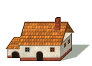
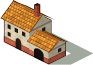
Osadnicy: budynki w rzucie izometrycznym jak w grze
Budynki stoją narożnikiem do widza: lewa ściana w świetle, prawa
w półcieniu, dach od góry. Dom przysadzisty, z kremowego tynku na
grubym ceglanym cokole, z małymi ciemnymi okienkami, łukowymi drzwiami,
kominem i parterową przybudówką z bramą. Chata drwala z desek na
kamiennej podmurówce, plac budowy z płytą fundamentu i rusztowaniem.
Obrazki przycinane automatycznie do zawartości.

diff --git a/docs/grafika/osadnicy.py b/docs/grafika/osadnicy.py
@@ -222,12 +222,12 @@ pine = [[
     '..........',
 ]]
 
-# --- budynki: jak pre-renderowane w grze – bryły w rzucie ukośnym (przód, prawy bok w głąb, dach od góry), liczone
-# w potrójnej rozdzielczości i uśredniane (gładkie krawędzie), z fakturą tynku, desek i dachówki, cieniem pod okapem,
-# ciemnym konturem i cieniem na trawie. Zapis: PNG z przezroczystością, w CSS w skali 1:1.
-# Punkt (x, y, z): x w prawo, y w górę, z w głąb; na ekranie głąb idzie w prawo-w górę.
+# --- budynki: jak pre-renderowane w grze – rzut izometryczny (budynek stoi narożnikiem do widza: widać lewą ścianę
+# w pełnym świetle, prawą w półcieniu i dach od góry), liczone w potrójnej rozdzielczości i uśredniane (gładkie
+# krawędzie), z fakturą tynku, desek i dachówki, ciemnym konturem i cieniem na trawie. PNG z przezroczystością, w CSS 1:1.
+# Punkt (x, y, z): oś x biegnie na ekranie w prawo-w dół, z w lewo-w dół, y w górę. Widoczne ściany: x = x1 (prawa)
+# i z = z1 (lewa).
 
-KX, KY = 0.55, 0.5  # przesunięcie ekranu na jednostkę głębi
 SS = 3  # nadpróbkowanie
 
 
@@ -260,12 +260,12 @@ class Scene:
     """Płótno w nadpróbkowaniu; poly(punkty 3D, paint) – paint(u, v, px, py): u, v w płaszczyźnie ściany (0..1),
     px, py – piksel obrazu wynikowego (do szumu). Kolor (r, g, b) albo (r, g, b, alfa)."""
 
-    def __init__(self, w, h, ox, oy):
-        self.w, self.h, self.ox, self.oy = w, h, ox, oy
+    def __init__(self, w, h, ox, oy, k=1.6):
+        self.w, self.h, self.ox, self.oy, self.k = w, h, ox, oy, k
         self.px = [[None] * (w * SS) for _ in range(h * SS)]
 
     def at(self, x, y, z):
-        return (self.ox + x + z * KX) * SS, (self.oy - y - z * KY) * SS
+        return (self.ox + (x - z) * self.k) * SS, (self.oy + ((x + z) * 0.5 - y) * self.k) * SS
 
     def poly(self, pts3d, paint):
         pts = [self.at(*p) for p in pts3d]
@@ -287,10 +287,10 @@ class Scene:
                     if color:
                         self.px[y][x] = color
 
-    def box(self, x0, z0, x1, z1, y0, y1, front, side, top=None):
-        """Prostopadłościan: prawy bok, przód, opcjonalnie wierzch (paint jak w poly)."""
-        self.poly([(x1, y0, z0), (x1, y0, z1), (x1, y1, z1), (x1, y1, z0)], side)
-        self.poly([(x0, y0, z0), (x1, y0, z0), (x1, y1, z0), (x0, y1, z0)], front)
+    def box(self, x0, x1, z0, z1, y0, y1, left, right, top=None):
+        """Prostopadłościan: prawa ściana (x = x1), lewa (z = z1), opcjonalnie wierzch (paint jak w poly)."""
+        self.poly([(x1, y0, z1), (x1, y0, z0), (x1, y1, z0), (x1, y1, z1)], right)
+        self.poly([(x0, y0, z1), (x1, y0, z1), (x1, y1, z1), (x0, y1, z1)], left)
         if top:
             self.poly([(x0, y1, z0), (x1, y1, z0), (x1, y1, z1), (x0, y1, z1)], top)
 
@@ -323,15 +323,20 @@ class Scene:
                 k = outline if edge else 1.0
                 row.append((round(c[0] * k), round(c[1] * k), round(c[2] * k), round(c[3] * 255)))
             final.append(row)
-        return final
+        # przycięcie do zawartości (płótno rysujemy z zapasem)
+        ys = [y for y in range(self.h) if any(px[3] for px in final[y])]
+        xs = [x for x in range(self.w) if any(final[y][x][3] for y in ys)]
+        assert ys[0] > 0 and xs[0] > 0 and ys[-1] < self.h - 1 and xs[-1] < self.w - 1, 'budynek nie mieści się na płótnie'
+        return [row[xs[0]:xs[-1] + 1] for row in final[ys[0]:ys[-1] + 1]]
 
 
 SHADOW = (8, 30, 0, 0.38)
+LIT, HALF = 1.0, 0.74  # lewa ściana w świetle, prawa w półcieniu
 
 
-def ground_shadow(sc, x0, x1, d, h, length):
-    """Cień na trawie w prawo-w tył: rzut bryły przy świetle z lewej góry."""
-    sc.poly([(x1, 0, -0.5), (x1 + length, 0, h * 0.25), (x1 + length, 0, d + h * 0.35), (x0 + 4, 0, d + h * 0.35), (x0 + 4, 0, d)],
+def ground_shadow(sc, x0, x1, z0, z1, length):
+    """Cień na trawie w prawo: rzut podstawy przesunięty w stronę +x, −z (światło z lewej)."""
+    sc.poly([(x0, 0, z0), (x1, 0, z0), (x1, 0, z1), (x1 + length, 0, z1 - length), (x1 + length, 0, z0 - length), (x0 + length, 0, z0 - length)],
             lambda u, v, px, py: SHADOW)
 
 
@@ -376,178 +381,156 @@ def tiled(base, seed, rows, cols, edge=None):
     return f
 
 
-def opening(sc, x0, x1, y0, y1, z, arch=True, inner=(34, 24, 18), frame=(150, 120, 90)):
-    """Ciemny otwór drzwi/bramy w przedniej ścianie, z łukiem i jasną krawędzią od światła."""
-    cx, r = (x0 + x1) / 2, (x1 - x0) / 2
-    def f(u, v, px, py):
-        x, y = x0 + u * (x1 - x0), y0 + v * (y1 - y0)
-        top = y1 - r + (r * r - (x - cx) ** 2) ** 0.5 * 0.9 if arch else y1
-        if y > top:
-            return None
-        if y > top - 0.9 or x < x0 + 0.8:
-            return frame
-        k = 0.7 + 0.5 * (x - x0) / (x1 - x0)
-        return shade(inner, k)
-    sc.poly([(x0, y0, z), (x1, y0, z), (x1, y1, z), (x0, y1, z)], f)
-
-
-def window(sc, x0, y0, w, h, z, side=False, d=0.0):
-    """Okienko z drewnianą kratką i kamiennym parapetem; side – w prawym boku (x0 to głębia)."""
-    def f(u, v, px, py):
-        if v < 0.14:
-            return (200, 190, 170)
-        if u < 0.12 or u > 0.88 or v > 0.9:
-            return (110, 70, 40)
-        if abs(u - 0.5) < 0.07 or abs(v - 0.55) < 0.06:
-            return (130, 86, 50)
-        return (30, 26, 24)
-    if side:
-        sc.poly([(d, y0, x0), (d, y0, x0 + w), (d, y0 + h, x0 + w), (d, y0 + h, x0)], f)
-    else:
-        sc.poly([(x0, y0, z), (x0 + w, y0, z), (x0 + w, y0 + h, z), (x0, y0 + h, z)], f)
-
-
-def walls(sc, x0, x1, z0, z1, h, front, side, base=None, base_h=0.0, eave=0.0):
-    """Przednia i prawa ściana z cokołem (base) i cieniem pod okapem (eave – grubość cienia)."""
-    def wrap(paint, span, dark):
-        def f(u, v, px, py):
-            y = v * h
-            c = base(u, y / base_h if base_h else 0, px, py) if base and y < base_h else paint(u, v, px, py)
-            if eave and y > h - eave:
-                c = shade(c, 0.7)
-            return shade(c, dark)
-        return f
-    sc.poly([(x1, 0, z0), (x1, 0, z1), (x1, h, z1), (x1, h, z0)], wrap(side, z1 - z0, 0.72))
-    sc.poly([(x0, 0, z0), (x1, 0, z0), (x1, h, z0), (x0, h, z0)], wrap(front, x1 - x0, 1.0))
-
-
-def gable(sc, x0, x1, z0, z1, h, rise, tiles_paint, gable_paint, over=1.6):
-    """Dach dwuspadowy z kalenicą wzdłuż x: trójkąt szczytu z prawej, tylna połać (widać jej skraj), przednia połać,
-    deska szczytowa i gąsiory na kalenicy."""
-    zm = (z0 + z1) / 2
-    sc.poly([(x1, h, z0), (x1, h, z1), (x1, h + rise, zm)], gable_paint)
-    sc.poly([(x0 - over, h - 0.6, z1 + over), (x1 + over, h - 0.6, z1 + over), (x1 + over, h + rise, zm), (x0 - over, h + rise, zm)],
-            lambda u, v, px, py: shade(tiles_paint(u, 1 - v, px, py), 0.62))
-    sc.poly([(x1 + over, h - 0.6, z0 - over), (x1 + over + 0.9, h - 0.6, z0 - over), (x1 + over + 0.9, h + rise, zm), (x1 + over, h + rise, zm)],
-            lambda u, v, px, py: (96, 52, 26))
-    sc.poly([(x0 - over, h - 0.8, z0 - over), (x1 + over, h - 0.8, z0 - over), (x1 + over, h + rise, zm), (x0 - over, h + rise, zm)], tiles_paint)
-    sc.poly([(x0 - over, h + rise - 0.5, zm - 0.6), (x1 + over, h + rise - 0.5, zm - 0.6), (x1 + over, h + rise + 0.9, zm), (x0 - over, h + rise + 0.9, zm)],
-            lambda u, v, px, py: shade((200, 110, 50), 0.8 + 0.3 * v + ((u * 30) % 1 < 0.15) * -0.25))
-
-
-def lean_to(sc, x0, x1, z0, z1, h_low, h_high, tiles_paint, over=1.2):
-    """Daszek pulpitowy dobudówki: opada ku przodowi."""
-    sc.poly([(x0 - over, h_low, z0 - over), (x1, h_low, z0 - over), (x1, h_high, z1), (x0 - over, h_high, z1)], tiles_paint)
-
-
-ROOF = (222, 128, 52)
-WALL = (232, 222, 200)
-BASE_RED = (176, 82, 56)
+ROOF = (238, 150, 52)
+WALL = (222, 208, 178)
+BASE_RED = (196, 96, 70)
 
 
 def red_base(seed):
     def f(u, t, px, py):
-        if t > 0.86:
-            return (120, 52, 34)  # listwa nad cokołem
+        if t > 0.9:
+            return (140, 60, 40)  # listwa nad cokołem
         return shade(BASE_RED, 0.86 + vnoise(px, py, 4, seed) * 0.2 + (_hash(px, py, seed) - 0.5) * 0.08)
     return f
 
 
+def block(sc, x0, x1, z0, z1, h, left, right, base=None, base_h=0.0, eave=0.0):
+    """Bryła: prawa ściana w półcieniu, lewa w świetle; cokół (base) do wysokości base_h, cień pod okapem."""
+    def wrap(paint, k):
+        def f(u, v, px, py):
+            y = v * h
+            c = base(u, y / base_h, px, py) if base and y < base_h else paint(u, v, px, py)
+            if eave and y > h - eave:
+                c = shade(c, 0.72)
+            return shade(c, k)
+        return f
+    sc.poly([(x1, 0, z1), (x1, 0, z0), (x1, h, z0), (x1, h, z1)], wrap(right, HALF))
+    sc.poly([(x0, 0, z1), (x1, 0, z1), (x1, h, z1), (x0, h, z1)], wrap(left, LIT))
+
+
+def hole_left(sc, x0, x1, y0, y1, z, color=(34, 26, 22), arch=False):
+    """Ciemny otwór (okno, drzwi, brama) w lewej ścianie; arch – zaokrąglona góra."""
+    def f(u, v, px, py):
+        if arch:
+            t = (u - 0.5) * 2
+            if v > 1 - 0.35 * (1 - (1 - min(1, t * t)) ** 0.5):
+                return None
+        return shade(color, 0.8 + 0.35 * u)
+    sc.poly([(x0, y0, z), (x1, y0, z), (x1, y1, z), (x0, y1, z)], f)
+
+
+def hole_right(sc, z0, z1, y0, y1, x, color=(30, 24, 20)):
+    sc.poly([(x, y0, z1), (x, y0, z0), (x, y1, z0), (x, y1, z1)], lambda u, v, px, py: shade(color, 0.8 + 0.3 * v))
+
+
+def roof_x(sc, x0, x1, z0, z1, h, rise, tiles_paint, gable_paint, over=1.0):
+    """Dach dwuspadowy, kalenica wzdłuż x: tylna połać, szczyt w prawej ścianie, przednia połać (w świetle),
+    deska na skraju i gąsiory na kalenicy."""
+    zm = (z0 + z1) / 2
+    sc.poly([(x0 - over, h, z0 - over), (x1 + over, h, z0 - over), (x1 + over, h + rise, zm), (x0 - over, h + rise, zm)],
+            lambda u, v, px, py: shade(tiles_paint(u, v, px, py), 0.6))
+    sc.poly([(x1, h, z1), (x1, h, z0), (x1, h + rise, zm)], lambda u, v, px, py: shade(gable_paint(u, v, px, py), HALF))
+    sc.poly([(x1 + over, h - 0.7, z1 + over), (x1 + over, h, z1 + over), (x1 + over, h + rise, zm), (x1 + over, h + rise - 0.7, zm)],
+            lambda u, v, px, py: (110, 56, 26))
+    sc.poly([(x0 - over, h, z1 + over), (x1 + over, h, z1 + over), (x1 + over, h + rise, zm), (x0 - over, h + rise, zm)], tiles_paint)
+    sc.poly([(x0 - over, h + rise - 0.4, zm + 0.5), (x1 + over, h + rise - 0.4, zm + 0.5), (x1 + over, h + rise + 0.5, zm), (x0 - over, h + rise + 0.5, zm)],
+            lambda u, v, px, py: shade((206, 112, 44), 0.8 + 0.3 * v - ((u * 24) % 1 < 0.15) * 0.25))
+
+
+def roof_z(sc, x0, x1, z0, z1, h, rise, tiles_paint, gable_paint, over=1.0):
+    """Dach dwuspadowy, kalenica wzdłuż z: szczyt w lewej ścianie (w świetle), widoczna prawa połać (półcień)."""
+    xm = (x0 + x1) / 2
+    sc.poly([(x0 - over, h, z1 + over), (x0 - over, h, z0 - over), (xm, h + rise, z0 - over), (xm, h + rise, z1 + over)],
+            lambda u, v, px, py: shade(tiles_paint(u, v, px, py), 0.6))
+    sc.poly([(x0, h, z1), (x1, h, z1), (xm, h + rise, z1)], gable_paint)
+    sc.poly([(x0 - over, h - 0.7, z1 + over), (x0 - over, h, z1 + over), (xm, h + rise, z1 + over), (xm, h + rise - 0.7, z1 + over)],
+            lambda u, v, px, py: (120, 62, 28))
+    sc.poly([(x1 + over, h - 0.7, z1 + over), (x1 + over, h, z1 + over), (xm, h + rise, z1 + over), (xm, h + rise - 0.7, z1 + over)],
+            lambda u, v, px, py: (96, 48, 22))
+    sc.poly([(x1 + over, h, z1 + over), (x1 + over, h, z0 - over), (xm, h + rise, z0 - over), (xm, h + rise, z1 + over)],
+            lambda u, v, px, py: shade(tiles_paint(u, v, px, py), 0.82))
+
+
 def house():
-    """Dom jak w grze: główna bryła z białego tynku na czerwonym cokole, pomarańczowa dachówka, łukowe drzwi,
-    kratkowane okienka, ceglany komin; z lewej niższa dobudówka z daszkiem pulpitowym i ciemną bramą."""
-    sc = Scene(92, 66, 20, 61)
-    w, d, h = 40, 22, 17
-    ground_shadow(sc, -16, w, d, h + 14, 12)
-    # dobudówka z lewej (cofnięta)
-    walls(sc, -16, 0, 6, 20, 10, stucco(WALL, 31, 0.15), stucco(WALL, 32), red_base(33), 2.4, 1.2)
-    opening(sc, -12, -4, 0, 7.6, 6)
-    lean_to(sc, -16, 0, 6, 20, 9.6, 14, tiled(ROOF, 34, 5, 7))
-    # główna bryła
-    walls(sc, 0, w, 0, d, h, stucco(WALL, 35, 0.15), stucco(WALL, 36), red_base(37), 3.2, 1.6)
-    opening(sc, 16, 23, 0, 10.5, 0)
-    window(sc, 5, 8.5, 4.5, 5, 0)
-    window(sc, 30, 8.5, 4.5, 5, 0)
-    window(sc, 7, 8.5, 4, 5, 0, side=True, d=w)
-    window(sc, 14, 8.5, 4, 5, 0, side=True, d=w)
-    gable(sc, 0, w, 0, d, h, 16, tiled(ROOF, 38, 7, 16, edge=0.012), stucco(WALL, 39))
-    # komin
-    brick = lambda u, v, px, py: shade((168, 72, 48), 0.85 + _hash(int(u * 3), int(v * 9), 40) * 0.25 - (((v * 9) % 1) < 0.15) * 0.3)
-    sc.box(28, 13, 32, 16, 24, 36, brick, lambda u, v, px, py: shade(brick(u, v, px, py), 0.7), lambda u, v, px, py: (60, 30, 20))
+    """Dom jak w grze: piętrowa bryła z kremowego tynku na grubym ceglanym cokole, pomarańczowa dachówka, małe
+    ciemne okienka w dwóch rzędach, łukowe drzwi, komin; z prawej parterowa przybudówka z ciemną bramą."""
+    sc = Scene(120, 110, 50, 60)
+    ground_shadow(sc, 0, 28, 0, 14, 7)
+    # piętrowa bryła
+    block(sc, 0, 16, 0, 14, 15, stucco(WALL, 31, 0.12), stucco(WALL, 32), red_base(33), 4, 1.2)
+    for wx in (2.5, 7, 11.5):
+        hole_left(sc, wx, wx + 2, 10, 12.6, 14)
+    hole_left(sc, 2.5, 4.5, 5.5, 8, 14)
+    hole_left(sc, 7.5, 11, 0, 7, 14, (40, 28, 20), arch=True)  # drzwi
+    hole_right(sc, 4, 6, 10, 12.6, 16)
+    roof_x(sc, 0, 16, 0, 14, 15, 7, tiled(ROOF, 38, 7, 12, edge=0.01), stucco(WALL, 39))
+    brick = lambda u, v, px, py: shade((176, 80, 54), 0.85 + _hash(int(u * 3), int(v * 8), 40) * 0.22 - (((v * 8) % 1) < 0.15) * 0.3)
+    sc.box(10, 12, 3, 5, 17, 24, brick, lambda u, v, px, py: shade(brick(u, v, px, py), HALF), lambda u, v, px, py: (54, 30, 22))  # komin
+    # przybudówka z bramą
+    block(sc, 16, 28, 3, 14, 8.5, stucco(WALL, 41, 0.12), stucco(WALL, 42), red_base(43), 3.5, 1)
+    hole_left(sc, 19, 25, 0, 6.8, 14, (22, 16, 14), arch=True)
+    hole_right(sc, 6, 8, 4.5, 6.8, 28)
+    roof_x(sc, 16, 28, 3, 14, 8.5, 4, tiled(ROOF, 44, 4, 9, edge=0.012), stucco(WALL, 45), over=0.8)
     return sc.image()
 
 
 def hut():
-    """Chata drwala jak w grze: ściany z czerwonobrązowych desek na ceglanym cokole, dach z ciemnego gontu,
-    ciemne drzwi i okienko, obok sterta bali."""
-    sc = Scene(70, 54, 6, 50)
-    w, d, h = 28, 16, 12
-    ground_shadow(sc, 0, w, d, h + 10, 9)
-    wood = (164, 104, 62)
-    walls(sc, 0, w, 0, d, h, planks(wood, 51), planks(wood, 52), red_base(53), 2.2, 1.4)
-    opening(sc, 16, 22, 0, 8.4, 0, arch=False, inner=(28, 18, 12), frame=(96, 56, 34))
-    window(sc, 5, 5.5, 4, 3.6, 0)
-    window(sc, 6, 5.5, 3.6, 3.6, 0, side=True, d=w)
-    gable(sc, 0, w, 0, d, h, 12, tiled((132, 78, 46), 54, 6, 14, edge=0.015), planks((128, 70, 44), 55), over=1.4)
-    # sterta bali z prawej z przodu: czoła bali jako elipsy ze słojami
-    for i, (bx, by) in enumerate(((w + 6, 1.6), (w + 9.2, 1.6), (w + 12.4, 1.6), (w + 7.6, 4.4), (w + 10.8, 4.4), (w + 9.2, 7.2))):
-        def log_end(u, v, px, py, i=i):
+    """Chata drwala jak w grze: zwarta bryła z brązowych desek na kamiennej podmurówce, dach z ciemnego gontu,
+    drzwi w lewej ścianie, okienko w prawej, obok sterta bali."""
+    sc = Scene(120, 110, 50, 60)
+    wood = (150, 92, 56)
+    ground_shadow(sc, 0, 14, 0, 11, 6)
+    stone = lambda u, t, px, py: shade((150, 142, 128), 0.8 + _hash(int(u * 9 + (t > 0.5) * 0.5), int(t * 2), 51) * 0.3
+                                       - ((u * 9 + (t > 0.5) * 0.5) % 1 < 0.1) * 0.35)
+    block(sc, 0, 14, 0, 11, 9, planks(wood, 52), planks(wood, 53), stone, 2.2, 1)
+    hole_left(sc, 7.5, 11, 0, 6.5, 11, (30, 20, 14))
+    hole_left(sc, 2.5, 4.5, 4, 6.2, 11)
+    hole_right(sc, 4, 6, 4, 6.2, 14)
+    roof_x(sc, 0, 14, 0, 11, 9, 7, tiled((128, 76, 44), 54, 6, 10, edge=0.012), planks((132, 80, 48), 55), over=1.2)
+    # sterta bali przed prawą ścianą: walce leżące wzdłuż z, widać ich czoła
+    for i, (lx, ly) in enumerate(((16.5, 1.2), (19, 1.2), (21.5, 1.2), (17.8, 3.4), (20.3, 3.4), (19, 5.6))):
+        sc.poly([(lx - 1.2, ly + 1.1, 2), (lx + 1.2, ly + 1.1, 2), (lx + 1.2, ly + 1.1, 9), (lx - 1.2, ly + 1.1, 9)],
+                lambda u, v, px, py: shade((126, 80, 46), 0.8 + 0.3 * u))
+        def end(u, v, px, py, i=i):
             r = ((u - 0.5) ** 2 + (v - 0.5) ** 2) ** 0.5 * 2
             if r > 1:
                 return None
-            if r > 0.82:
-                return (96, 60, 34)
-            return shade((214, 170, 110), 0.85 + 0.15 * ((r * 4) % 1 > 0.5) + _hash(i, 0, 56) * 0.1)
-        sc.poly([(bx - 1.6, by + 1.4, 1), (bx + 1.6, by + 1.4, 1), (bx + 1.6, by + 1.4, -5), (bx - 1.6, by + 1.4, -5)],
-                lambda u, v, px, py: shade((120, 74, 42), 0.8 + 0.3 * u))  # wierzch bala
-        sc.poly([(bx - 1.6, by - 1.6, -5), (bx + 1.6, by - 1.6, -5), (bx + 1.6, by + 1.6, -5), (bx - 1.6, by + 1.6, -5)], log_end)
+            return (98, 60, 34) if r > 0.8 else shade((216, 172, 112), 0.86 + 0.14 * ((r * 4) % 1 > 0.5) + _hash(i, 0, 56) * 0.1)
+        sc.poly([(lx - 1.2, ly - 1.1, 9), (lx + 1.2, ly - 1.1, 9), (lx + 1.2, ly + 1.1, 9), (lx - 1.2, ly + 1.1, 9)], end)
     return sc.image()
 
 
 def site():
-    """Plac budowy jak w grze: fundament z kamiennych bloków, zaczęte mury z tynku na cokole (nierówna góra),
-    rusztowanie z bali z belkami, z boku stos desek i kamieni."""
-    sc = Scene(76, 56, 6, 50)
-    w, d, f = 32, 18, 2.2
-    ground_shadow(sc, 0, w, d, 12, 8)
-    stone = lambda u, v, px, py, span=1: shade((176, 170, 158), 0.8 + _hash(int(u * 12 + (int(v * 2) % 2) * 0.5), int(v * 2), 61) * 0.3
-                                               - ((u * 12 + (int(v * 2) % 2) * 0.5) % 1 < 0.08) * 0.35 - ((v * 2) % 1 < 0.12) * 0.3)
+    """Plac budowy jak w grze: płyta fundamentu z kamiennych bloków, rusztowanie z bali, zaczęte mury, deski i kamienie."""
+    sc = Scene(120, 110, 50, 60)
+    f = 1.4
+    ground_shadow(sc, 0, 16, 0, 12, 4)
+    stone = lambda u, v, px, py: shade((182, 176, 162), 0.82 + _hash(int(u * 8), int(v * 6), 61) * 0.25
+                                       - ((u * 8) % 1 < 0.08 or (v * 6) % 1 < 0.08) * 0.3)
     post = lambda u, v, px, py: shade((150, 100, 56), 0.75 + 0.45 * (1 - u))
-    beam = lambda u, v, px, py: shade((160, 108, 60), 0.7 + 0.4 * v)
-    # tylne słupy i belka
-    for x in (0.5, w - 2):
-        sc.box(x, d - 2, x + 1.5, d - 0.5, f, 22, post, lambda u, v, px, py: shade((110, 72, 40), 1))
-    sc.box(0.5, d - 2, w - 0.5, d - 0.5, 20.5, 22, beam, beam)
-    # fundament
-    sc.box(-1, -1, w + 1, d + 1, 0, f, stone, lambda u, v, px, py: shade(stone(u, v, px, py), 0.72),
-           lambda u, v, px, py: shade((190, 184, 172), 0.9 + _hash(px, py, 62) * 0.15))
-    # zaczęte mury: z tyłu wyższe (z prawej), z przodu do połowy, góra postrzępiona
-    rag = lambda u: 0.55 + 0.3 * ((int(u * 9) * 7) % 5) / 4
-    def wall_paint(seed):
-        st = stucco(WALL, seed)
-        rb = red_base(seed + 1)
-        def p(u, v, px, py):
-            if v > rag(u):
-                return None
-            return rb(u, v / 0.3, px, py) if v < 0.3 else st(u, v, px, py)
-        return p
-    sc.poly([(w, f, 0), (w, f, d), (w, f + 9, d), (w, f + 9, 0)], lambda u, v, px, py: (lambda c: shade(c, 0.72) if c else None)(wall_paint(63)(u, v, px, py)))
-    sc.poly([(0, f, 0), (w, f, 0), (w, f + 9, 0), (0, f + 9, 0)], wall_paint(65))
-    # przednie słupy, belki, zastrzał
-    for x in (0.5, w - 2):
-        sc.box(x, -0.5, x + 1.5, 1, f, 22, post, lambda u, v, px, py: shade((110, 72, 40), 1))
-    sc.box(0.5, -0.5, w - 0.5, 1, 20.5, 22, beam, beam)
-    sc.poly([(w - 1, 20.5, 1), (w, 20.5, 1), (w, 20.5, d - 0.5), (w - 1, 20.5, d - 0.5)], beam)
-    sc.poly([(2, f + 1, -0.6), (3.4, f + 1, -0.6), (13, 20.5, -0.6), (11.6, 20.5, -0.6)], post)
-    # deski i kamienie obok
-    for i in range(4):
-        y = i * 1.1
-        sc.box(w + 4, -8 + i * 0.3, w + 16, -5 + i * 0.3, y, y + 1.1,
-               lambda u, v, px, py: shade((210, 160, 100), 0.8 + 0.25 * v - (u < 0.03) * 0.3), lambda u, v, px, py: (150, 104, 60),
-               lambda u, v, px, py: shade((222, 176, 116), 0.9 + _hash(int(u * 20), 0, 66 + i) * 0.15))
-    for bx, bz, s_ in ((w + 5, 4, 3.4), (w + 9, 6, 2.8), (w + 7, 9, 3)):
-        sc.box(bx, bz, bx + s_, bz + s_ * 0.8, 0, s_ * 0.7, lambda u, v, px, py: shade((178, 172, 160), 0.85 + _hash(px, py, 67) * 0.2),
-               lambda u, v, px, py: (120, 116, 108), lambda u, v, px, py: shade((200, 196, 184), 0.9 + _hash(px, py, 68) * 0.15))
+    beam = lambda u, v, px, py: shade((168, 116, 66), 0.75 + 0.35 * v)
+    for x, z in ((0, 0), (15, 0)):  # tylne słupy
+        sc.box(x, x + 1, z, z + 1, f, 15, post, post)
+    sc.box(0, 16, 0, 1, 14, 15, beam, beam, beam)
+    sc.box(-0.5, 16.5, -0.5, 12.5, 0, f, lambda u, v, px, py: shade(stone(u, v, px, py), LIT), lambda u, v, px, py: shade(stone(u, v, px, py), HALF),
+           lambda u, v, px, py: shade((196, 190, 176), 0.9 + _hash(px, py, 62) * 0.12))
+    rag = lambda u: 0.45 + 0.35 * ((int(u * 7) * 5) % 4) / 3
+    def wall(seed, k):
+        st, rb = stucco(WALL, seed), red_base(seed + 1)
+        return lambda u, v, px, py: None if v > rag(u) else shade(rb(u, v / 0.35, px, py) if v < 0.35 else st(u, v, px, py), k)
+    sc.poly([(16, f, 12), (16, f, 0), (16, f + 7, 0), (16, f + 7, 12)], wall(63, HALF))
+    sc.poly([(0, f, 12), (16, f, 12), (16, f + 7, 12), (0, f + 7, 12)], wall(65, LIT))
+    for x, z in ((0, 11), (15, 11)):  # przednie słupy i belki
+        sc.box(x, x + 1, z, z + 1, f, 15, post, post)
+    sc.box(0, 16, 11, 12, 14, 15, beam, beam, beam)
+    sc.box(15, 16, 0, 12, 14, 15, beam, beam, beam)
+    for i in range(3):  # deski
+        y = i * 0.9
+        sc.box(19, 21.5, 2 + i * 0.2, 11 + i * 0.2, y, y + 0.9, lambda u, v, px, py: (150, 104, 60),
+               lambda u, v, px, py: shade((206, 156, 96), 0.85 + 0.2 * v), lambda u, v, px, py: shade((224, 178, 118), 0.9 + _hash(int(v * 20), 0, 66 + i) * 0.15))
+    for bx, bz, s_ in ((18.5, 12.5, 2.4), (21, 13.5, 2), (19.5, 15, 2.2)):  # kamienie
+        sc.box(bx, bx + s_, bz, bz + s_, 0, s_ * 0.7, lambda u, v, px, py: shade((180, 174, 162), 0.9 + _hash(px, py, 67) * 0.15),
+               lambda u, v, px, py: (124, 120, 112), lambda u, v, px, py: shade((204, 200, 188), 0.9 + _hash(px, py, 68) * 0.12))
     return sc.image()
 
 
